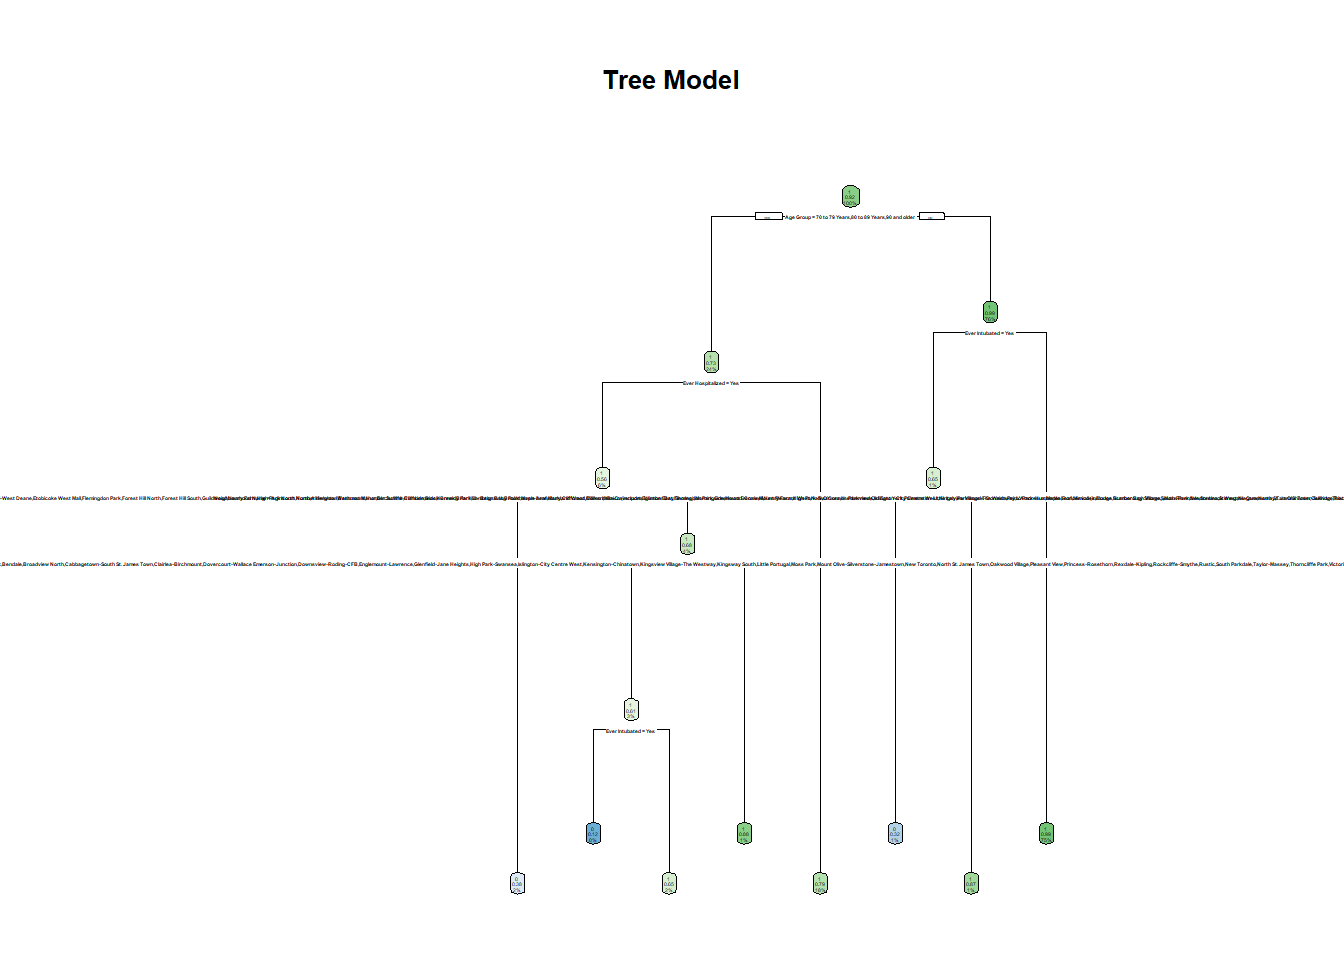
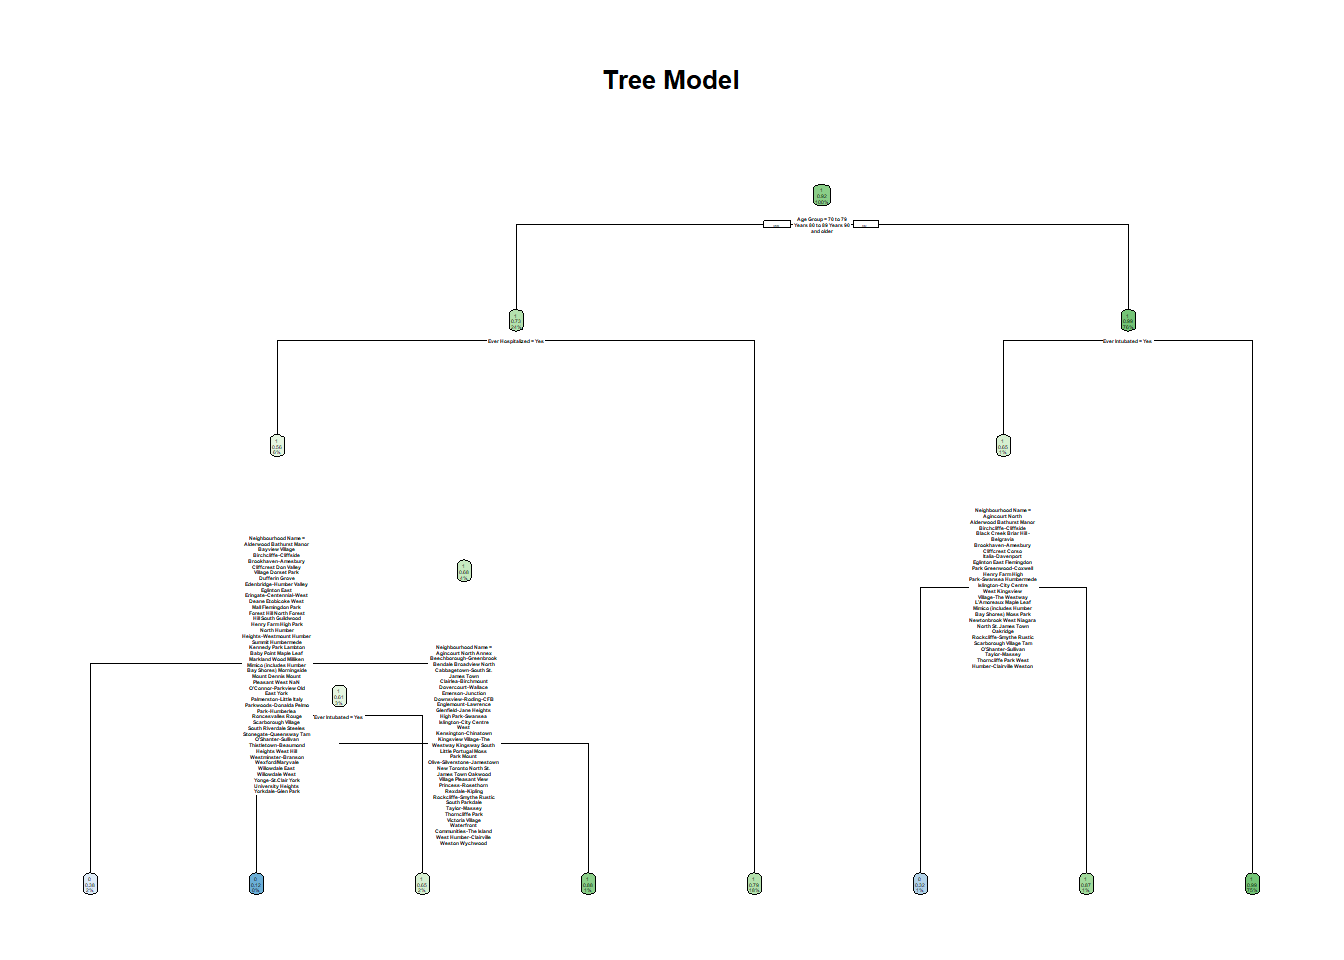
Add files via upload

diff --git a/content/post/2020-09-20-research-of-covid-19-on-diferent-aspects-from-toronto-cases.html b/content/post/2020-09-20-research-of-covid-19-on-diferent-aspects-from-toronto-cases.html
@@ -2,7 +2,7 @@
 title: "COVID-19 on Diferent Aspects from Toronto Cases"
 author: "Zhendong Zhang"
 date: 2020-09-20
-abstract: "In this paper I will explore the data of COVID-19 cases from Toronto, and analyzing it in different aspects such as gender groups, age groups, fatal and resolved cases."
+abstract: "In this paper I will explore the data of COVID-19 cases from Toronto, and analyzing it in different aspects such as gender groups, age groups, fatal and resolved cases. Also, I will develop a model to pursue deeper influences from the variables and to know the level of influences by each variable."
 output: html_document
 ---
 
@@ -37,35 +37,23 @@ str(covdat)</code></pre>
 ## [10] &quot;Reported Date&quot;          &quot;Client Gender&quot;          &quot;Outcome&quot;               
 ## [13] &quot;Currently Hospitalized&quot; &quot;Currently in ICU&quot;       &quot;Currently Intubated&quot;   
 ## [16] &quot;Ever Hospitalized&quot;      &quot;Ever in ICU&quot;            &quot;Ever Intubated&quot;</code></pre>
-<pre class="r"><code>covdat</code></pre>
-<pre><code>## # A tibble: 17,872 x 18
-##     `_id` Assigned_ID `Outbreak Assoc~ `Age Group` `Neighbourhood ~ FSA  
-##     &lt;int&gt;       &lt;int&gt; &lt;chr&gt;            &lt;chr&gt;       &lt;chr&gt;            &lt;chr&gt;
-##  1 143647           1 Sporadic         50 to 59 Y~ Willowdale East  M2N  
-##  2 143648           2 Sporadic         50 to 59 Y~ Willowdale East  M2N  
-##  3 143649           3 Sporadic         20 to 29 Y~ Parkwoods-Donal~ M3A  
-##  4 143650           4 Sporadic         60 to 69 Y~ Church-Yonge Co~ M4W  
-##  5 143651           5 Sporadic         60 to 69 Y~ Church-Yonge Co~ M4W  
-##  6 143652           6 Sporadic         50 to 59 Y~ Newtonbrook West M2R  
-##  7 143653           7 Sporadic         80 to 89 Y~ Milliken         M1V  
-##  8 143654           8 Sporadic         60 to 69 Y~ Willowdale West  M2N  
-##  9 143655           9 Sporadic         50 to 59 Y~ Willowdale East  M2N  
-## 10 143656          10 Sporadic         60 to 69 Y~ Henry Farm       M2J  
-## # ... with 17,862 more rows, and 12 more variables: `Source of
-## #   Infection` &lt;chr&gt;, Classification &lt;chr&gt;, `Episode Date` &lt;chr&gt;, `Reported
-## #   Date` &lt;chr&gt;, `Client Gender` &lt;chr&gt;, Outcome &lt;chr&gt;, `Currently
-## #   Hospitalized` &lt;chr&gt;, `Currently in ICU` &lt;chr&gt;, `Currently Intubated` &lt;chr&gt;,
-## #   `Ever Hospitalized` &lt;chr&gt;, `Ever in ICU` &lt;chr&gt;, `Ever Intubated` &lt;chr&gt;</code></pre>
-<p>The dataset(covdat) is total reported cases of COVID-19 in Toronto</p>
+<p>The dataset(covdat) is total reported cases of COVID-19 in Toronto<br />
+</p>
 <p>Episode Date is an estimate of symptom onset date in a case. It is calculated hierarchically based
 on either the date of symptom onset, specimen collection/test date, or the date reported to
-public health.</p>
-<p>Reported Date is the date the case was reported to public health.</p>
+public health.<br />
+</p>
+<p>Reported Date is the date the case was reported to public health.<br />
+</p>
 <div id="introduction" class="section level1">
 <h1>Introduction</h1>
-<p>The major event in the year 2020 is surely the outbreak of COVID-19. It has significantly changed our life. In this paper, I will explore the influence of COVID-19 on different groups of people in Toronto. And also the effectiveness of the response of Government. This paper is mainly based on the confirmed cases` data from Toronto.</p>
-<p>I mainly compared the data from each group of people such as male, female, resolved cases and fatal cases. Then I tried to find out the characteristics in each group and found out the possible reasons behind these data. The major found is that most fatal cases in the Toronto area are elder people, and this disease has indiscriminate influences across different genders.</p>
-<p>First, I traced the curve of the outbreak from Jan 2020 until now and the distribution of cases on each age group in Toronto. Then I analyzed the sources of infections on these cases, and I trace the closed contacted cases curve to see if the policy is effective. In the end, I mainly focus on the fatal and resolved cases and tried to analyze the characteristics behind these two groups. In the future I will keep monitoring the cases in Toronto, seeing if there is another event worth analyzing. This paper`s weakness is that I omit lots of cases that the data related are not available so we cannot trace them, but there might be a major influence in these cases, which could significantly influence our conclusion. Also, the data sample is too small since we only have Toronto data.</p>
+<p>The major event in the year 2020 is surely the outbreak of COVID-19. It has significantly changed our life. In this paper, I will explore the influence of COVID-19 on different groups of people in Toronto. And also the effectiveness of the response of Government. This paper is mainly based on the confirmed cases` data from Toronto.<br />
+</p>
+<p>I mainly compared the data from each group of people such as male, female, resolved cases and fatal cases. Then I tried to find out the characteristics in each group and found out the possible reasons behind these data. The major found is that most fatal cases in the Toronto area are elder people, and this disease has indiscriminate influences across different genders.<br />
+</p>
+<p>First, I traced the curve of the outbreak from Jan 2020 until now and the distribution of cases on each age group in Toronto. Then I analyzed the sources of infections on these cases, and I trace the closed contacted cases curve to see if the policy is effective. In the end, I mainly focus on the fatal and resolved cases and tried to analyze the characteristics behind these two groups. In the future I will keep monitoring the cases in Toronto, seeing if there is another event worth analyzing. This paper`s weakness is that I omit lots of cases that the data related are not available so we cannot trace them, but there might be a major influence in these cases, which could significantly influence our conclusion. Also, the data sample is too small since we only have Toronto data. In the end, I developed a tree-based model on predicting the possibilities of outcomes for a confirmed case.<br />
+</p>
+<p>My source code is here: <a href="https://github.com/Craymate/STA304-2020/blob/master/content/post/2020-09-20-research-of-covid-19-on-diferent-aspects-from-toronto-cases.Rmd" class="uri">https://github.com/Craymate/STA304-2020/blob/master/content/post/2020-09-20-research-of-covid-19-on-diferent-aspects-from-toronto-cases.Rmd</a></p>
 </div>
 <div id="for-overall-cases" class="section level1">
 <h1><span style="color:purple">For Overall Cases:</span></h1>
@@ -148,8 +136,9 @@ So immune system is making a great effect in this outbreak.</p>
 <p>This is a classification tree based model on predicting the chance you can recover from COVID-19.<br />
 I build this model by using 60% of total cases for training, and test the model on the remaining 40%.<br />
 I cleaned the active cases and made data binomial. This means in the result section, 1 is for Resolved, and 0 is for Fatal.<br />
-<br />
-<span style="color:red">Attention:</span> This model is only for study, the result does`t represent real outcome in reality.</p>
+</p>
+<p><span style="color:red">Attention:</span> This model is only for study, the result does`t represent real outcome in reality.
+<span style="color:red">Pre-condition:</span> The input cases must be confirmed.</p>
 <pre class="r"><code>test[1,]</code></pre>
 <pre><code>## # A tibble: 1 x 6
 ##   `Age Group` `Ever Hospitali~ `Ever in ICU` `Ever Intubated` `Neighbourhood ~
@@ -164,8 +153,6 @@ FSA stands for the patient`s first three letter of postal code.</p>
 <pre><code>## [1] 6129</code></pre>
 <p>There are total 9193 training cases.
 There are total 6129 testing cases.<br />
-<br />
-<br />
 </p>
 <p><img src="/post/2020-09-20-research-of-covid-19-on-diferent-aspects-from-toronto-cases_files/figure-html/test-mod-1.png" width="672" /></p>
 <p>Here is the Tree Model Plot: <a href="https://github.com/Craymate/STA304-2020/blob/master/content/post/Tree%20Model.pdf\" class="uri">https://github.com/Craymate/STA304-2020/blob/master/content/post/Tree%20Model.pdf\</a></p>
@@ -202,20 +189,18 @@ confusionMatrix(table(Pred, result))</code></pre>
 <p>The rate of accuracy is approximately 97.7%.<br />
 And there are 105 cases actually fatal but predicted resolved.<br />
 And there are 36 cases actually resolved but predicted fatal.<br />
-<br />
 </p>
 <p><span style="color:green">Here we can try to create cases to see their outcomes.</span><br />
-<br />
-The first case is in “20 to 29 years” age group.And not ever in ICU, Hospitalized, Intubated.<br />
+</p>
+<p>The first case is in “20 to 29 years” age group.And not ever in ICU, Hospitalized, Intubated.<br />
 Neighbourhood is “Little Portugal”<br />
 FSA is “M6K”<br />
-<br />
-The second case is in “80 to 89 Years” age group. And the rest are same<br />
-<br />
-The third case is in “80 to 89 Year” And have ever in ICU, Hospitalized, Intubated.<br />
+</p>
+<p>The second case is in “80 to 89 Years” age group. And the rest are same<br />
+</p>
+<p>The third case is in “80 to 89 Year” And have ever in ICU, Hospitalized, Intubated.<br />
 Neighbourhood is “Victoria Village”<br />
 FSA is “M4A”<br />
-<br />
 <br />
 </p>
 <pre class="r"><code>predict(tree, try1)</code></pre>
@@ -239,14 +224,21 @@ The outcome becomes 88.24% to be fatal and 11.76% to be resolved.<br />
 </div>
 <div id="discussion" class="section level1">
 <h1>Discussion</h1>
-<p>COVID-19 is making no difference on different gender groups, but age groups. Elder people cases are more likely to be fatal based on Toronto data. And recovery of this disease is heavily based on immune system. Also, every age group could have equally chance to get infected.</p>
-<p>Despite the unknown source of infection cases, the major source is close contact. The government published a law in April to enforce social distancing. This law is making its effect in June, and it is effective. The level of confirmed cases in Toronto in Sept shows the sign of increasing now.</p>
+<p>COVID-19 is making no difference on different gender groups, but age groups. Elder people cases are more likely to be fatal based on Toronto data. And recovery of this disease is heavily based on immune system. Also, every age group could have equally chance to get infected.<br />
+</p>
+<p>Despite the unknown source of infection cases, the major source is close contact. The government published a law in April to enforce social distancing. This law is making its effect in June, and it is effective. The level of confirmed cases in Toronto in Sept shows the sign of increasing now.<br />
+</p>
+<p>We can identify the influences of medical history from COVID-19 in the tree model, as well as the influences by age. With age increasing, the possibility of fatal is increasing. And if a patient has ever been to hospital, ICU or intubated, the possibility also has different levels of increases.<br />
+</p>
 </div>
 <div id="weakness" class="section level1">
 <h1>Weakness</h1>
-<p>In this paper, I omit the NA sources of infection, but it has the highest amount of infections, so this might be critical. Also, the data-set is too small to trace the real characteristics of COVID-19, since it only has data from Toronto. In the future, I will use a larger and well-specified data to further my study.</p>
-<p>The data in this spreadsheet are subject to change as public health investigations into reported cases and continuous quality improvement initiatives are ongoing, and additional cases continue to be reported. The data will be completely refreshed and overwritten on a weekly basis.</p>
-<p>This</p>
+<p>In this paper, I omit the NA sources of infection, but it has the highest amount of infections, so this might be critical. Also, the data-set is too small to trace the real characteristics of COVID-19, since it only has data from Toronto. In the future, I will use a larger and well-specified data to further my study.<br />
+</p>
+<p>The data in this spreadsheet are subject to change as public health investigations into reported cases and continuous quality improvement initiatives are ongoing, and additional cases continue to be reported. The data will be completely refreshed and overwritten on a weekly basis.<br />
+</p>
+<p>This tree-based model does not have much precision on predicting even though the testing result is good. Because this model is lack of advanced algorithms and sample data, we can only identify some variable influences by it.<br />
+</p>
 </div>
 <div id="references" class="section level1">
 <h1>References</h1>

diff --git a/public/2020/09/20/covid-19-on-diferent-aspects-from-toronto-cases/index.html b/public/2020/09/20/covid-19-on-diferent-aspects-from-toronto-cases/index.html
@@ -101,35 +101,23 @@ str(covdat)</code></pre>
 ## [10] &quot;Reported Date&quot;          &quot;Client Gender&quot;          &quot;Outcome&quot;               
 ## [13] &quot;Currently Hospitalized&quot; &quot;Currently in ICU&quot;       &quot;Currently Intubated&quot;   
 ## [16] &quot;Ever Hospitalized&quot;      &quot;Ever in ICU&quot;            &quot;Ever Intubated&quot;</code></pre>
-<pre class="r"><code>covdat</code></pre>
-<pre><code>## # A tibble: 17,872 x 18
-##     `_id` Assigned_ID `Outbreak Assoc~ `Age Group` `Neighbourhood ~ FSA  
-##     &lt;int&gt;       &lt;int&gt; &lt;chr&gt;            &lt;chr&gt;       &lt;chr&gt;            &lt;chr&gt;
-##  1 143647           1 Sporadic         50 to 59 Y~ Willowdale East  M2N  
-##  2 143648           2 Sporadic         50 to 59 Y~ Willowdale East  M2N  
-##  3 143649           3 Sporadic         20 to 29 Y~ Parkwoods-Donal~ M3A  
-##  4 143650           4 Sporadic         60 to 69 Y~ Church-Yonge Co~ M4W  
-##  5 143651           5 Sporadic         60 to 69 Y~ Church-Yonge Co~ M4W  
-##  6 143652           6 Sporadic         50 to 59 Y~ Newtonbrook West M2R  
-##  7 143653           7 Sporadic         80 to 89 Y~ Milliken         M1V  
-##  8 143654           8 Sporadic         60 to 69 Y~ Willowdale West  M2N  
-##  9 143655           9 Sporadic         50 to 59 Y~ Willowdale East  M2N  
-## 10 143656          10 Sporadic         60 to 69 Y~ Henry Farm       M2J  
-## # ... with 17,862 more rows, and 12 more variables: `Source of
-## #   Infection` &lt;chr&gt;, Classification &lt;chr&gt;, `Episode Date` &lt;chr&gt;, `Reported
-## #   Date` &lt;chr&gt;, `Client Gender` &lt;chr&gt;, Outcome &lt;chr&gt;, `Currently
-## #   Hospitalized` &lt;chr&gt;, `Currently in ICU` &lt;chr&gt;, `Currently Intubated` &lt;chr&gt;,
-## #   `Ever Hospitalized` &lt;chr&gt;, `Ever in ICU` &lt;chr&gt;, `Ever Intubated` &lt;chr&gt;</code></pre>
-<p>The dataset(covdat) is total reported cases of COVID-19 in Toronto</p>
+<p>The dataset(covdat) is total reported cases of COVID-19 in Toronto<br />
+</p>
 <p>Episode Date is an estimate of symptom onset date in a case. It is calculated hierarchically based
 on either the date of symptom onset, specimen collection/test date, or the date reported to
-public health.</p>
-<p>Reported Date is the date the case was reported to public health.</p>
+public health.<br />
+</p>
+<p>Reported Date is the date the case was reported to public health.<br />
+</p>
 <div id="introduction" class="section level1">
 <h1>Introduction</h1>
-<p>The major event in the year 2020 is surely the outbreak of COVID-19. It has significantly changed our life. In this paper, I will explore the influence of COVID-19 on different groups of people in Toronto. And also the effectiveness of the response of Government. This paper is mainly based on the confirmed cases` data from Toronto.</p>
-<p>I mainly compared the data from each group of people such as male, female, resolved cases and fatal cases. Then I tried to find out the characteristics in each group and found out the possible reasons behind these data. The major found is that most fatal cases in the Toronto area are elder people, and this disease has indiscriminate influences across different genders.</p>
-<p>First, I traced the curve of the outbreak from Jan 2020 until now and the distribution of cases on each age group in Toronto. Then I analyzed the sources of infections on these cases, and I trace the closed contacted cases curve to see if the policy is effective. In the end, I mainly focus on the fatal and resolved cases and tried to analyze the characteristics behind these two groups. In the future I will keep monitoring the cases in Toronto, seeing if there is another event worth analyzing. This paper`s weakness is that I omit lots of cases that the data related are not available so we cannot trace them, but there might be a major influence in these cases, which could significantly influence our conclusion. Also, the data sample is too small since we only have Toronto data.</p>
+<p>The major event in the year 2020 is surely the outbreak of COVID-19. It has significantly changed our life. In this paper, I will explore the influence of COVID-19 on different groups of people in Toronto. And also the effectiveness of the response of Government. This paper is mainly based on the confirmed cases` data from Toronto.<br />
+</p>
+<p>I mainly compared the data from each group of people such as male, female, resolved cases and fatal cases. Then I tried to find out the characteristics in each group and found out the possible reasons behind these data. The major found is that most fatal cases in the Toronto area are elder people, and this disease has indiscriminate influences across different genders.<br />
+</p>
+<p>First, I traced the curve of the outbreak from Jan 2020 until now and the distribution of cases on each age group in Toronto. Then I analyzed the sources of infections on these cases, and I trace the closed contacted cases curve to see if the policy is effective. In the end, I mainly focus on the fatal and resolved cases and tried to analyze the characteristics behind these two groups. In the future I will keep monitoring the cases in Toronto, seeing if there is another event worth analyzing. This paper`s weakness is that I omit lots of cases that the data related are not available so we cannot trace them, but there might be a major influence in these cases, which could significantly influence our conclusion. Also, the data sample is too small since we only have Toronto data. In the end, I developed a tree-based model on predicting the possibilities of outcomes for a confirmed case.<br />
+</p>
+<p>My source code is here: <a href="https://github.com/Craymate/STA304-2020/blob/master/content/post/2020-09-20-research-of-covid-19-on-diferent-aspects-from-toronto-cases.Rmd" class="uri">https://github.com/Craymate/STA304-2020/blob/master/content/post/2020-09-20-research-of-covid-19-on-diferent-aspects-from-toronto-cases.Rmd</a></p>
 </div>
 <div id="for-overall-cases" class="section level1">
 <h1><span style="color:purple">For Overall Cases:</span></h1>
@@ -212,8 +200,9 @@ So immune system is making a great effect in this outbreak.</p>
 <p>This is a classification tree based model on predicting the chance you can recover from COVID-19.<br />
 I build this model by using 60% of total cases for training, and test the model on the remaining 40%.<br />
 I cleaned the active cases and made data binomial. This means in the result section, 1 is for Resolved, and 0 is for Fatal.<br />
-<br />
-<span style="color:red">Attention:</span> This model is only for study, the result does`t represent real outcome in reality.</p>
+</p>
+<p><span style="color:red">Attention:</span> This model is only for study, the result does`t represent real outcome in reality.
+<span style="color:red">Pre-condition:</span> The input cases must be confirmed.</p>
 <pre class="r"><code>test[1,]</code></pre>
 <pre><code>## # A tibble: 1 x 6
 ##   `Age Group` `Ever Hospitali~ `Ever in ICU` `Ever Intubated` `Neighbourhood ~
@@ -228,8 +217,6 @@ FSA stands for the patient`s first three letter of postal code.</p>
 <pre><code>## [1] 6129</code></pre>
 <p>There are total 9193 training cases.
 There are total 6129 testing cases.<br />
-<br />
-<br />
 </p>
 <p><img src="/post/2020-09-20-research-of-covid-19-on-diferent-aspects-from-toronto-cases_files/figure-html/test-mod-1.png" width="672" /></p>
 <p>Here is the Tree Model Plot: <a href="https://github.com/Craymate/STA304-2020/blob/master/content/post/Tree%20Model.pdf\" class="uri">https://github.com/Craymate/STA304-2020/blob/master/content/post/Tree%20Model.pdf\</a></p>
@@ -266,20 +253,18 @@ confusionMatrix(table(Pred, result))</code></pre>
 <p>The rate of accuracy is approximately 97.7%.<br />
 And there are 105 cases actually fatal but predicted resolved.<br />
 And there are 36 cases actually resolved but predicted fatal.<br />
-<br />
 </p>
 <p><span style="color:green">Here we can try to create cases to see their outcomes.</span><br />
-<br />
-The first case is in “20 to 29 years” age group.And not ever in ICU, Hospitalized, Intubated.<br />
+</p>
+<p>The first case is in “20 to 29 years” age group.And not ever in ICU, Hospitalized, Intubated.<br />
 Neighbourhood is “Little Portugal”<br />
 FSA is “M6K”<br />
-<br />
-The second case is in “80 to 89 Years” age group. And the rest are same<br />
-<br />
-The third case is in “80 to 89 Year” And have ever in ICU, Hospitalized, Intubated.<br />
+</p>
+<p>The second case is in “80 to 89 Years” age group. And the rest are same<br />
+</p>
+<p>The third case is in “80 to 89 Year” And have ever in ICU, Hospitalized, Intubated.<br />
 Neighbourhood is “Victoria Village”<br />
 FSA is “M4A”<br />
-<br />
 <br />
 </p>
 <pre class="r"><code>predict(tree, try1)</code></pre>
@@ -303,14 +288,21 @@ The outcome becomes 88.24% to be fatal and 11.76% to be resolved.<br />
 </div>
 <div id="discussion" class="section level1">
 <h1>Discussion</h1>
-<p>COVID-19 is making no difference on different gender groups, but age groups. Elder people cases are more likely to be fatal based on Toronto data. And recovery of this disease is heavily based on immune system. Also, every age group could have equally chance to get infected.</p>
-<p>Despite the unknown source of infection cases, the major source is close contact. The government published a law in April to enforce social distancing. This law is making its effect in June, and it is effective. The level of confirmed cases in Toronto in Sept shows the sign of increasing now.</p>
+<p>COVID-19 is making no difference on different gender groups, but age groups. Elder people cases are more likely to be fatal based on Toronto data. And recovery of this disease is heavily based on immune system. Also, every age group could have equally chance to get infected.<br />
+</p>
+<p>Despite the unknown source of infection cases, the major source is close contact. The government published a law in April to enforce social distancing. This law is making its effect in June, and it is effective. The level of confirmed cases in Toronto in Sept shows the sign of increasing now.<br />
+</p>
+<p>We can identify the influences of medical history from COVID-19 in the tree model, as well as the influences by age. With age increasing, the possibility of fatal is increasing. And if a patient has ever been to hospital, ICU or intubated, the possibility also has different levels of increases.<br />
+</p>
 </div>
 <div id="weakness" class="section level1">
 <h1>Weakness</h1>
-<p>In this paper, I omit the NA sources of infection, but it has the highest amount of infections, so this might be critical. Also, the data-set is too small to trace the real characteristics of COVID-19, since it only has data from Toronto. In the future, I will use a larger and well-specified data to further my study.</p>
-<p>The data in this spreadsheet are subject to change as public health investigations into reported cases and continuous quality improvement initiatives are ongoing, and additional cases continue to be reported. The data will be completely refreshed and overwritten on a weekly basis.</p>
-<p>This</p>
+<p>In this paper, I omit the NA sources of infection, but it has the highest amount of infections, so this might be critical. Also, the data-set is too small to trace the real characteristics of COVID-19, since it only has data from Toronto. In the future, I will use a larger and well-specified data to further my study.<br />
+</p>
+<p>The data in this spreadsheet are subject to change as public health investigations into reported cases and continuous quality improvement initiatives are ongoing, and additional cases continue to be reported. The data will be completely refreshed and overwritten on a weekly basis.<br />
+</p>
+<p>This tree-based model does not have much precision on predicting even though the testing result is good. Because this model is lack of advanced algorithms and sample data, we can only identify some variable influences by it.<br />
+</p>
 </div>
 <div id="references" class="section level1">
 <h1>References</h1>
